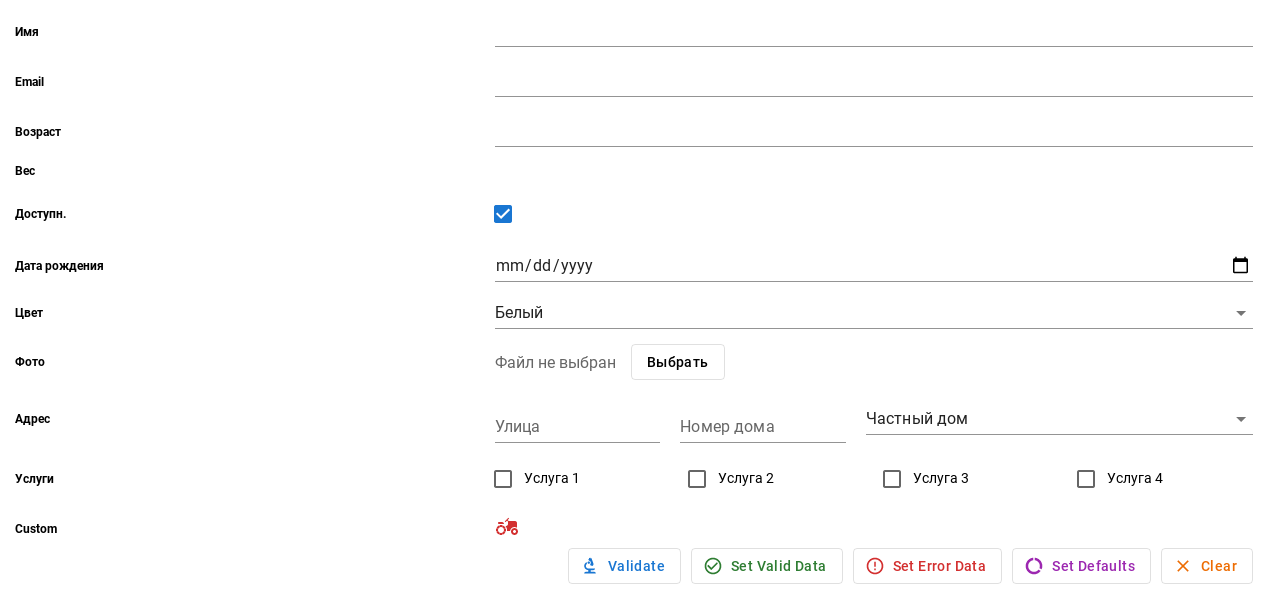
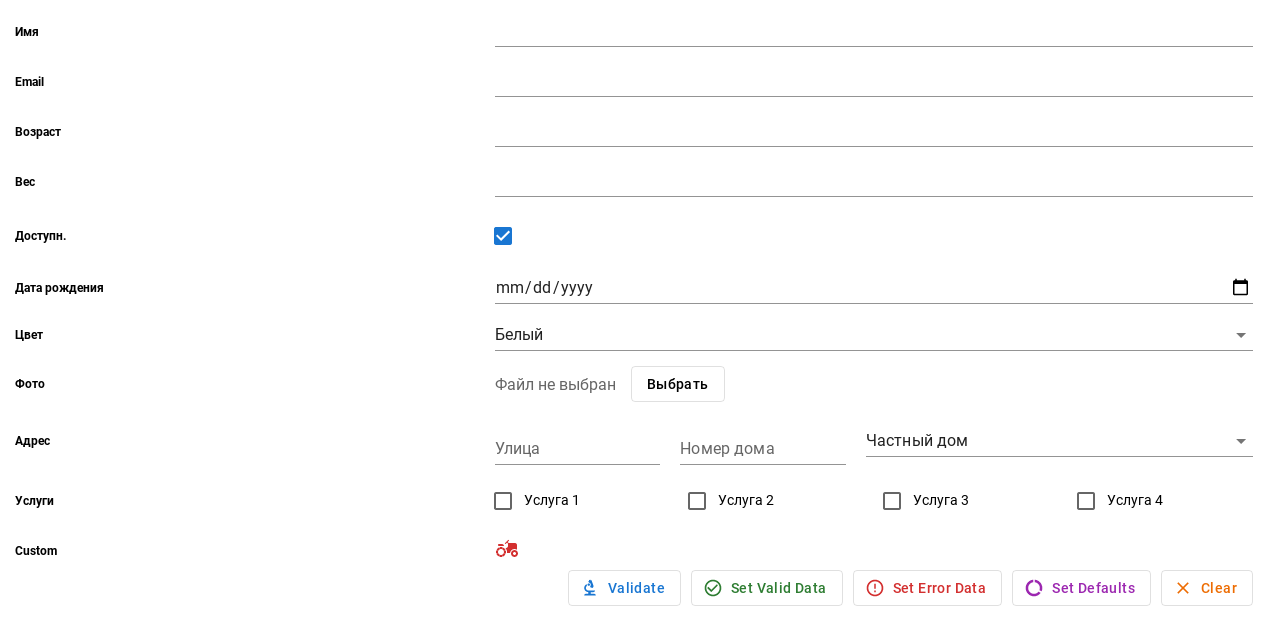
Merged PR 736: feat(ui: form) add form float control
Related work items: #3611

diff --git a/portal-ui/src/app/components/Form/Control/_type/Form-Control_type_float.tsx b/portal-ui/src/app/components/Form/Control/_type/Form-Control_type_float.tsx
@@ -1,0 +1,72 @@
+import React, { Component } from 'react';
+import { boundMethod } from 'autobind-decorator';
+import { observer } from 'mobx-react';
+import { withBemMod } from '@bem-react/core';
+import { InputAdornment, TextField } from '@mui/material';
+
+import { FieldType, PropertySchemaFloat } from '../../../../services/crg/schema.models';
+
+import { cnFormControl, FormControlProps } from '../Form-Control';
+
+@observer
+class FormControlTypeFloat extends Component<FormControlProps> {
+  render() {
+    const { htmlId, className, fieldValue = '', property, inSet, errors } = this.props;
+    const { measureUnit, title, defaultValue } = property as PropertySchemaFloat;
+
+    return (
+      <div className={cnFormControl({ inSet }, [className])}>
+        <TextField
+          id={htmlId}
+          fullWidth={!inSet}
+          type='number'
+          InputProps={{
+            endAdornment: measureUnit ? <InputAdornment position='end'>{measureUnit}</InputAdornment> : undefined
+          }}
+          value={fieldValue === undefined ? defaultValue : fieldValue}
+          label={inSet ? title : undefined}
+          onChange={this.handleChange}
+          error={!!errors?.length}
+          helperText={errors}
+          onBlur={this.handleBlur}
+          variant='standard'
+        />
+      </div>
+    );
+  }
+
+  @boundMethod
+  private handleChange(event: React.ChangeEvent<{ value: unknown }>) {
+    const { onChange, property } = this.props;
+    const { precision } = property as PropertySchemaFloat;
+    const targetValue = event.target.value;
+
+    let value = targetValue ? Number(targetValue) : targetValue;
+
+    if (targetValue && typeof precision === 'number') {
+      value = Number(Number(value).toFixed(precision));
+    }
+
+    if (onChange) {
+      onChange({ value, propertyName: property.name });
+    }
+  }
+
+  @boundMethod
+  private handleBlur() {
+    const { onNeedValidate, fieldValue, property } = this.props;
+
+    if (onNeedValidate) {
+      onNeedValidate({
+        value: fieldValue,
+        propertyName: property.name
+      });
+    }
+  }
+}
+
+export const withTypeFloat = withBemMod<FormControlProps, FormControlProps>(
+  cnFormControl(),
+  { type: FieldType.FLOAT },
+  () => FormControlTypeFloat
+);

diff --git a/portal-ui/src/app/components/Form/Control/Form-Control.composed.tsx b/portal-ui/src/app/components/Form/Control/Form-Control.composed.tsx
@@ -5,13 +5,15 @@ import { withTypeChoice } from './_type/Form-Control_type_choice';
 import { withTypeCustom } from './_type/Form-Control_type_custom';
 import { withTypeDatetime } from './_type/Form-Control_type_datetime';
 import { withTypeInt } from './_type/Form-Control_type_int';
-
 import { withTypeSet } from './_type/Form-Control_type_set';
 import { withTypeString } from './_type/Form-Control_type_string';
+import { withTypeFloat } from './_type/Form-Control_type_float';
+
 import { FormControl as Presenter } from './Form-Control';
 
 export const FormControl = compose(
   withTypeInt,
+  withTypeFloat,
   withTypeString,
   withTypeChoice,
   withTypeBinary,
